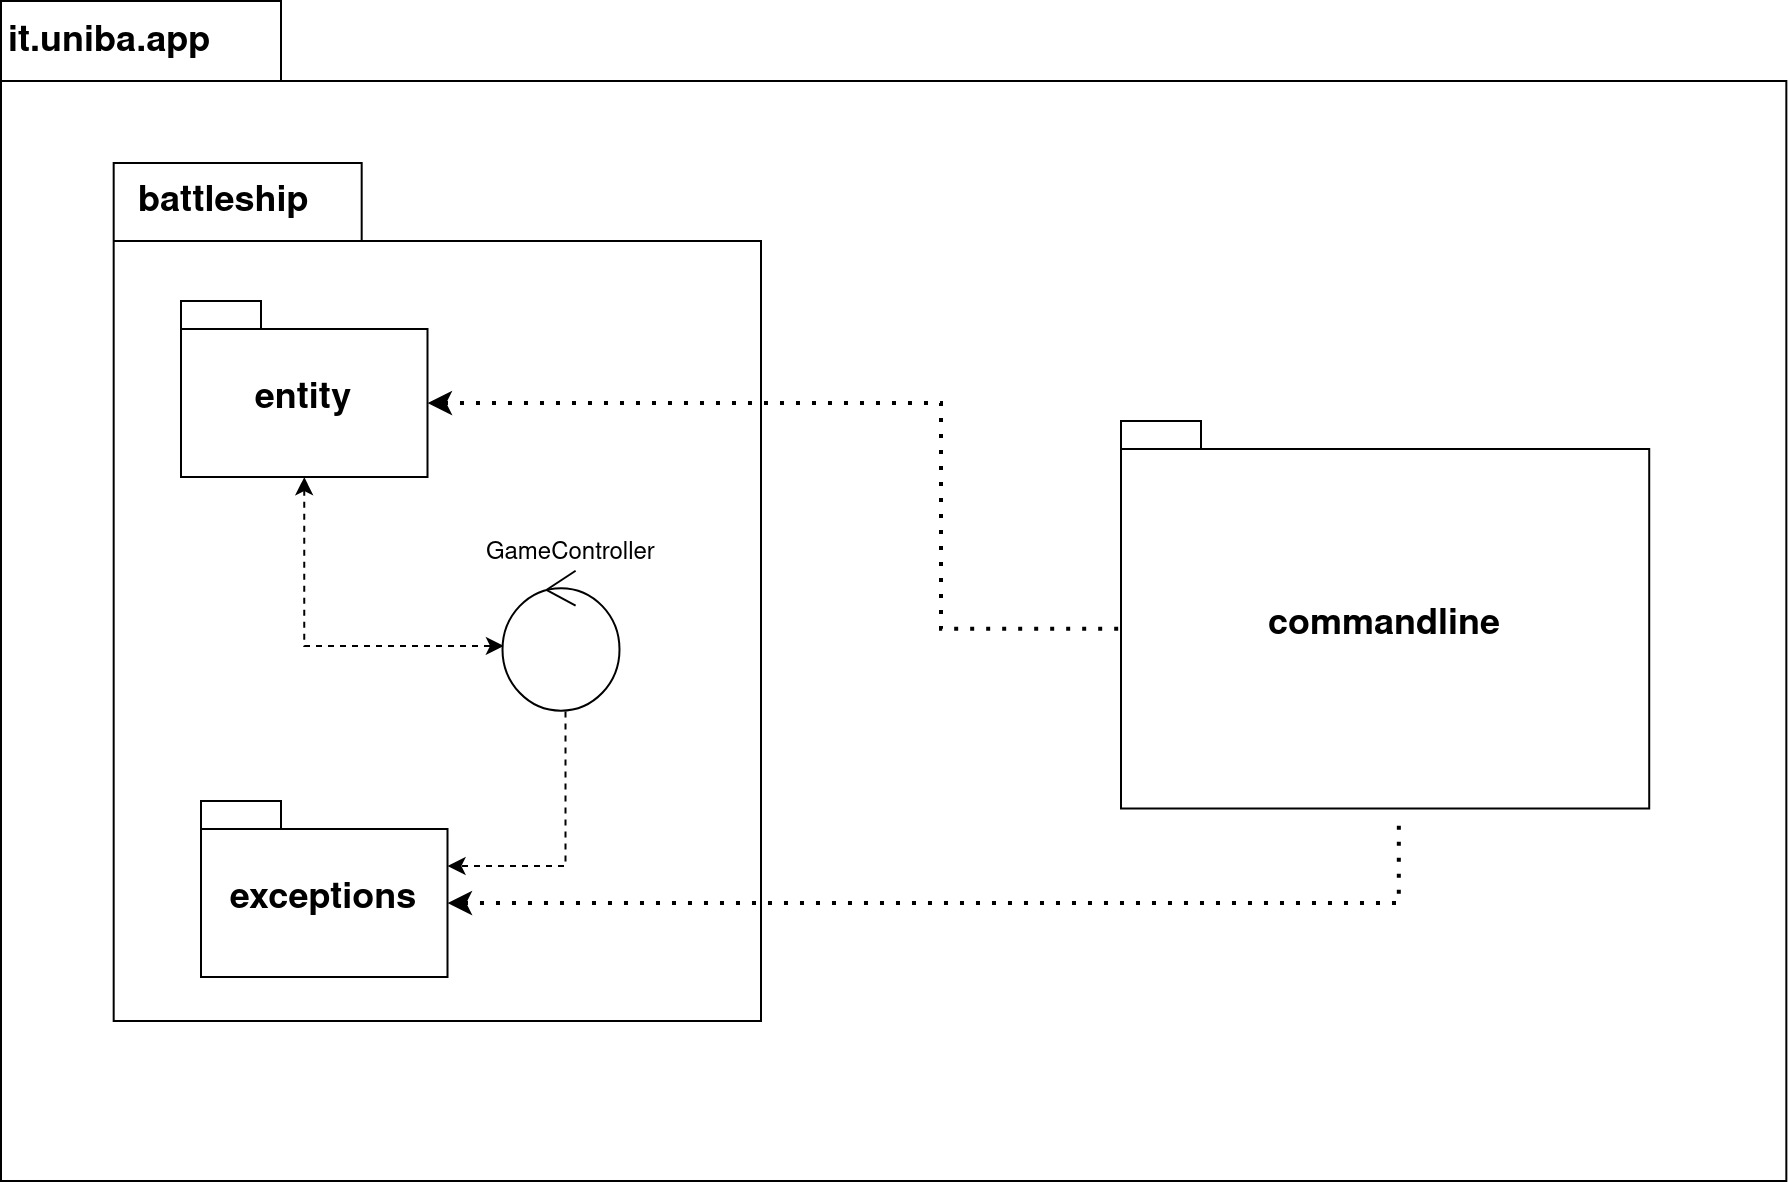
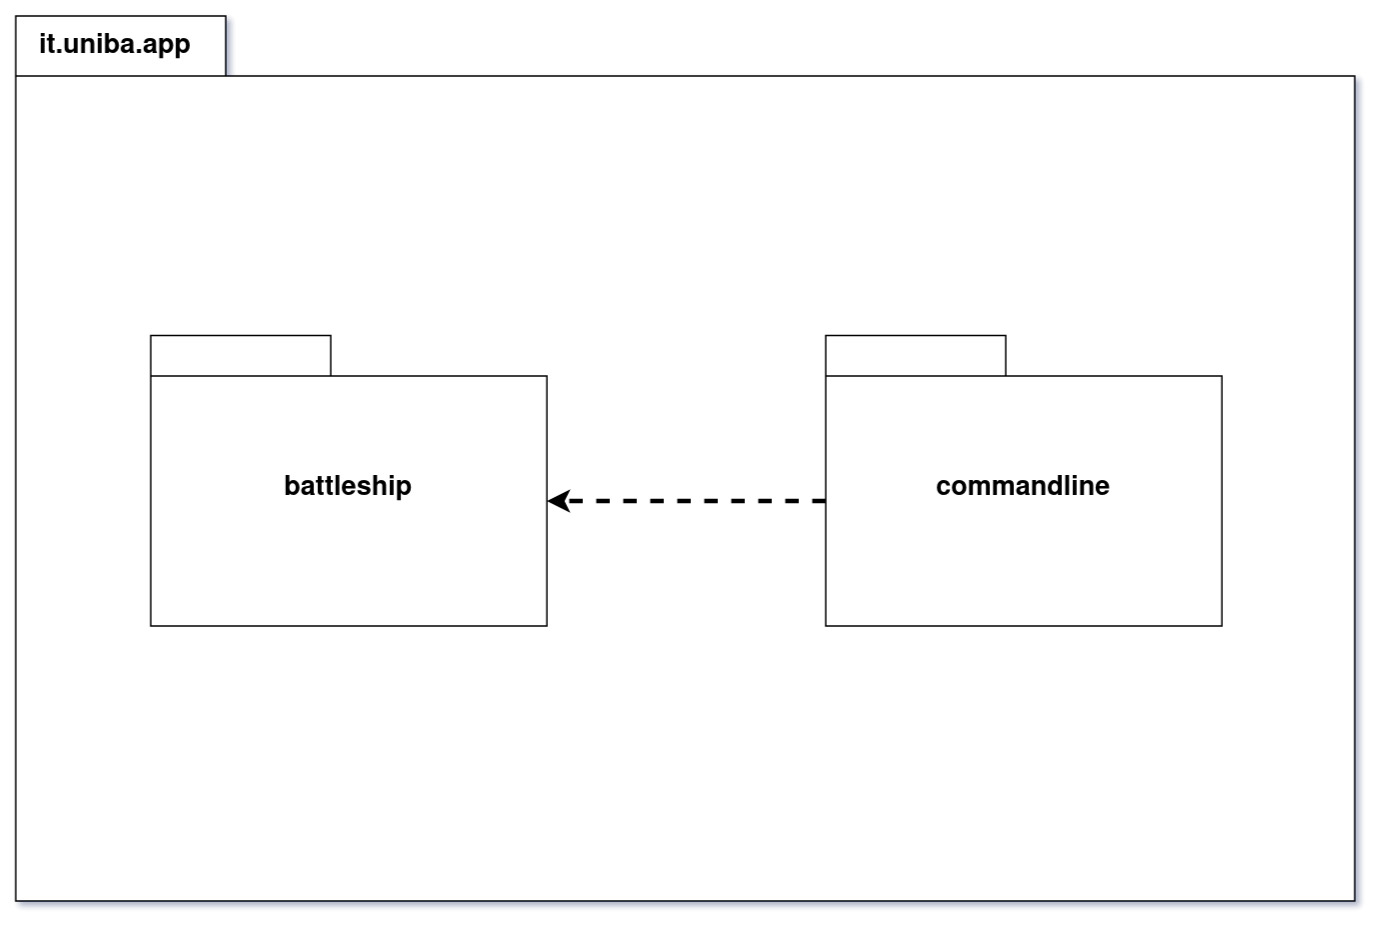
Aggiornata sezione 4.1 in Report
Aggiunti dettagli al package battleship e commandline e corretta l'immagine

diff --git a/docs/Report.md b/docs/Report.md
@@ -184,11 +184,15 @@ Ad un alto livello di astrazione la struttura del sistema è la seguente:
 
 ![diagramma dei package](./img/s2-package-general.jpg)
 
-Come si può osservare, il package it.uniba.app, che contiene il codice relativo al sistema oggetto di discussione di questo report (battleship) è costruito sfruttando l'archiettura di Java.
+Come si può osservare, il `package it.uniba.app`, che contiene il codice relativo al sistema oggetto di discussione di questo report (battleship) è costruito sfruttando l'archiettura di Java.
 
 Scendendo di livello, la struttura del package si articola nel seguente modo:
 
 ![diagramma del package](./img/s2-package-it-uniba-app.jpg)
+
+Come verrà anche descritto nella sezione successiva (4.2) i package sono stati realizzati in modo da rendere chiara la separazione tra logica di dominio e logica di presentazione:
+- `battleship` : contiene i componenti (package o classi) di competenza del domino di interesse (battaglia navale solitario);
+- `commandline` : contiene i componenti che utilizzano i servizi offerti da `battleship` per interfacciarsi con l'utente;
 
 ### (4.2) Componenti
 Il sistema è costituito da due componenti principali: 
